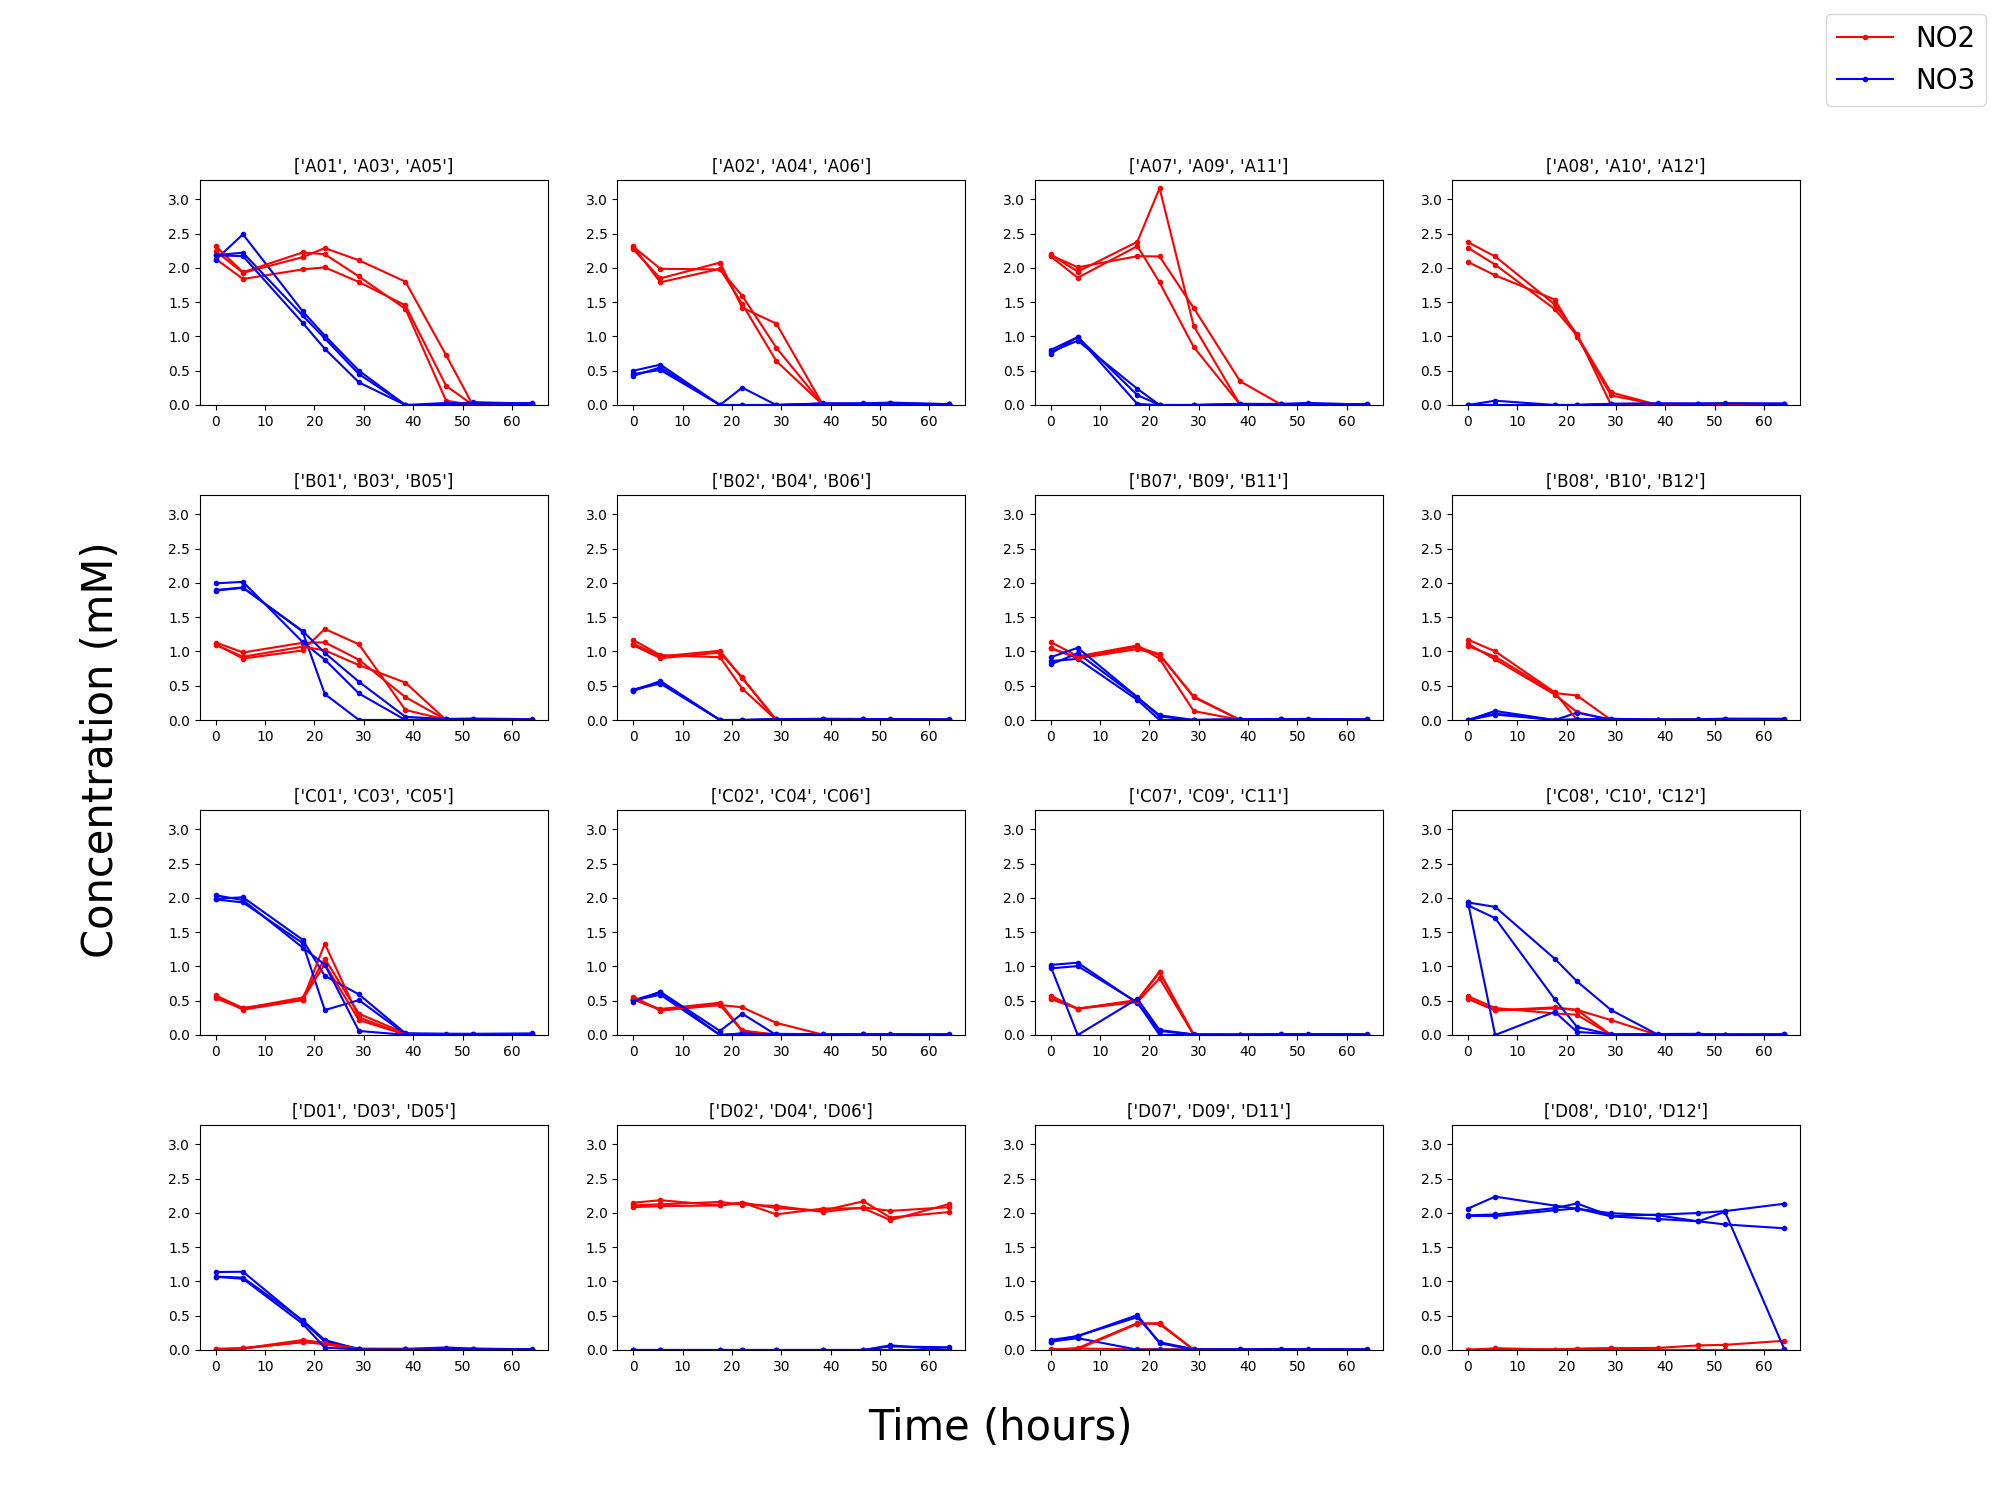
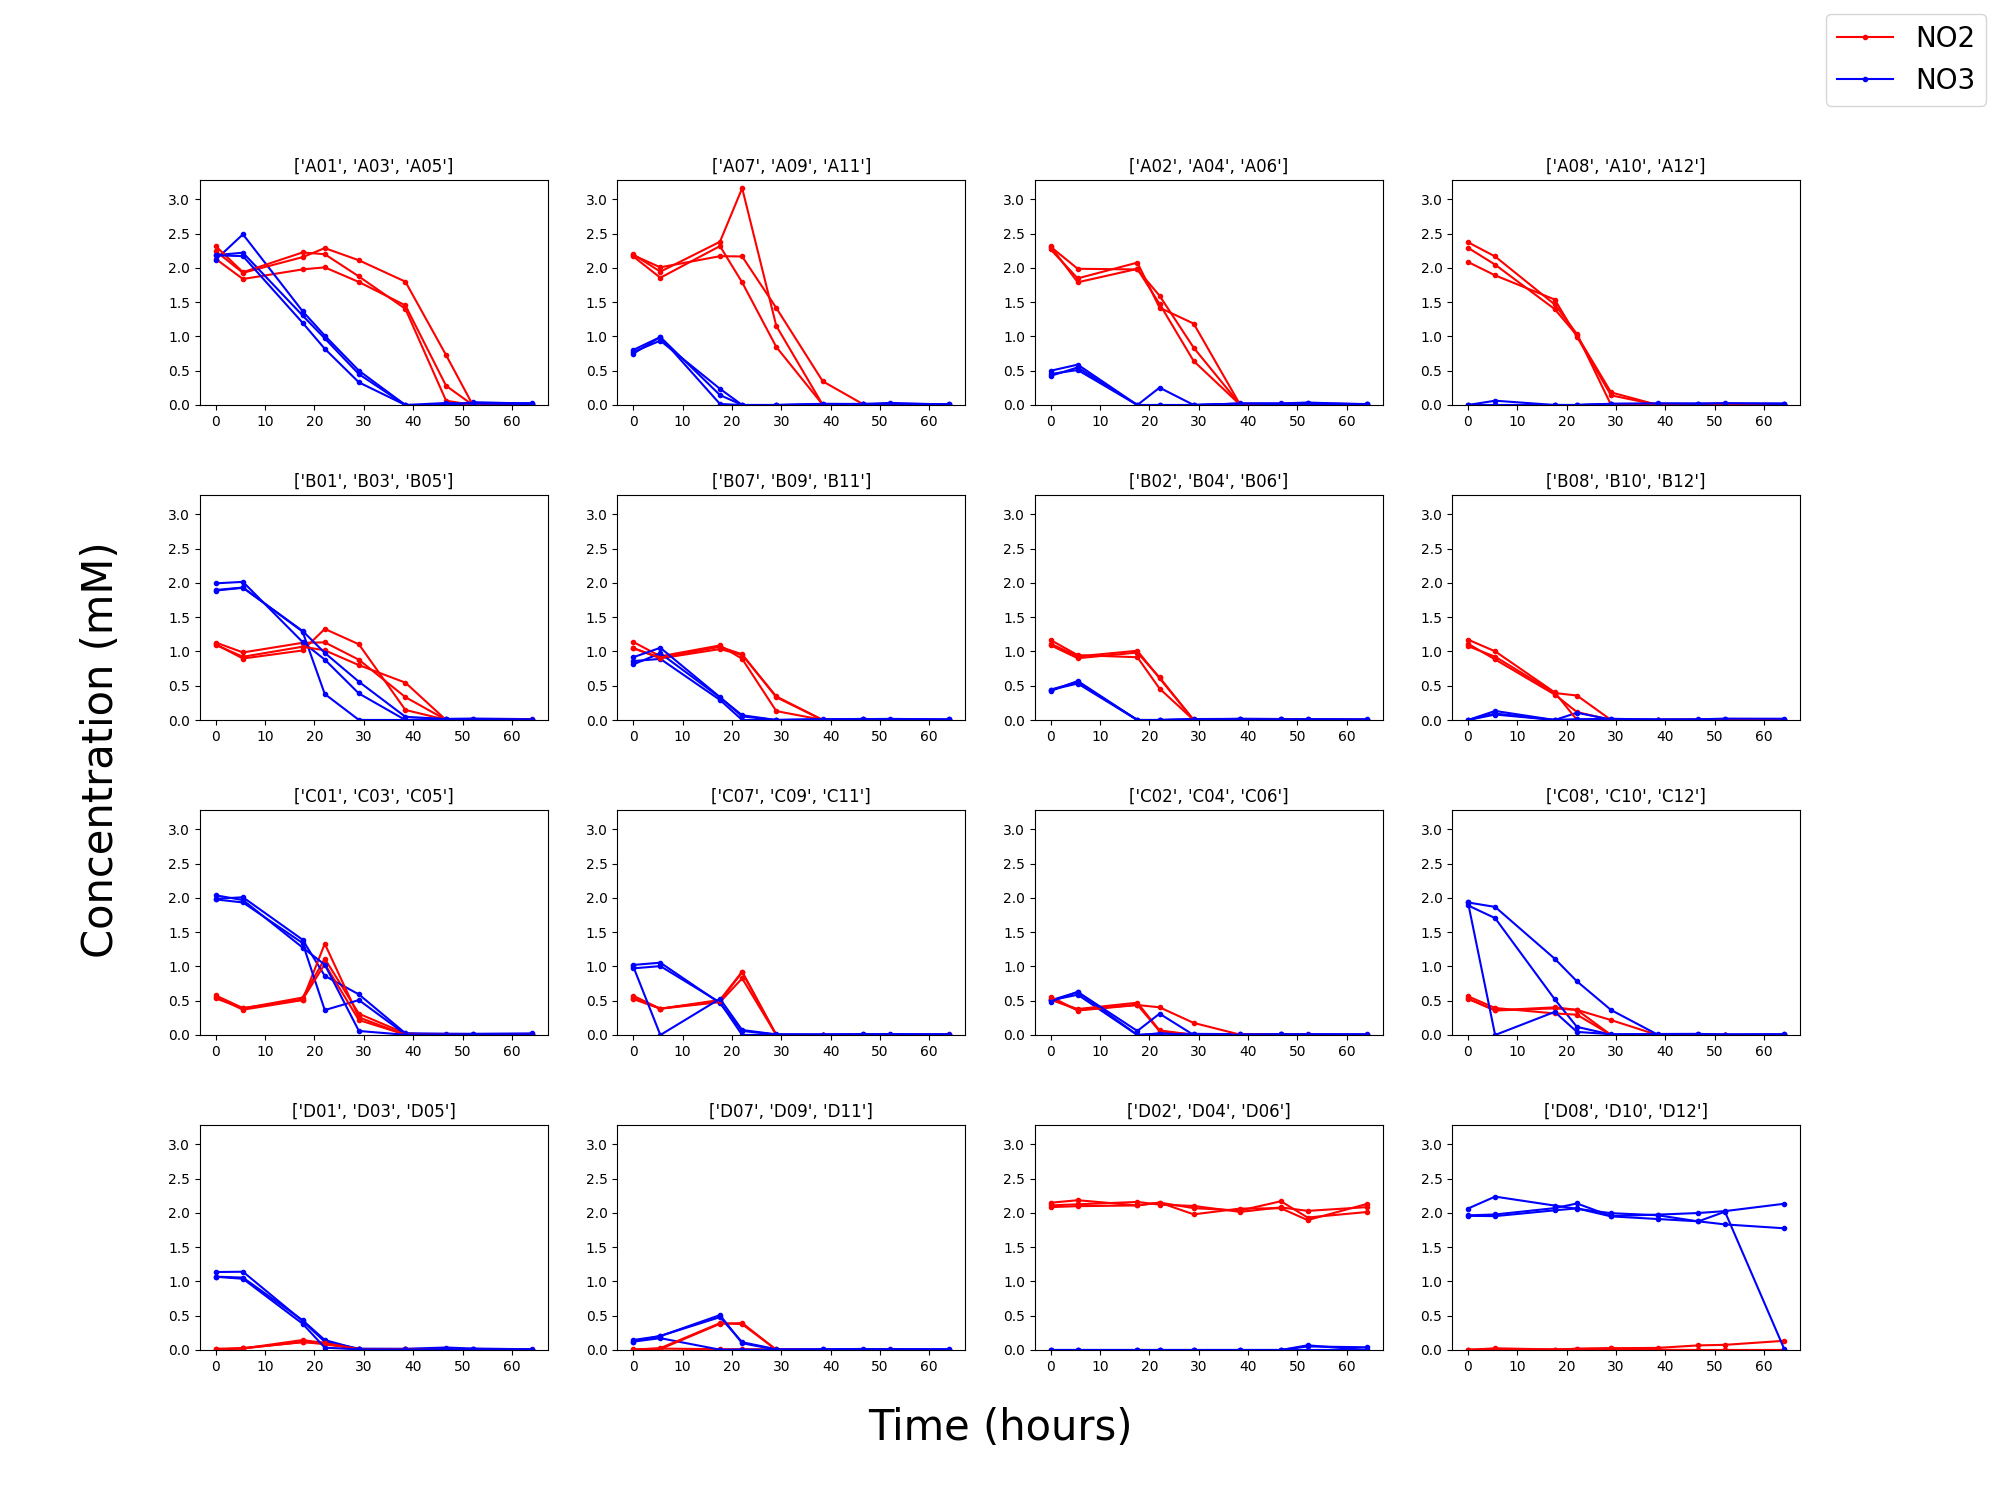
modified:   20241103/plots/time_series_overlap_0.png 	modified:   20241103/plots/time_series_overlap_1.png 	modified:   plots_time_series_20241105.py

diff --git a/plots_time_series_20241105.py b/plots_time_series_20241105.py
@@ -70,14 +70,14 @@ output_folder = f'{filepath}/plots'
 os.makedirs(output_folder, exist_ok=True)
 
 # List of row names in the order you want to display them
-rows_to_plot = ['A01', 'A03', 'A05', 'A02', 'A04', 'A06', 'A07', 'A09', 'A11', 'A08', 'A10', 'A12',
-                'B01', 'B03', 'B05', 'B02', 'B04', 'B06', 'B07', 'B09', 'B11', 'B08', 'B10', 'B12',
-                'C01', 'C03', 'C05', 'C02', 'C04', 'C06', 'C07', 'C09', 'C11', 'C08', 'C10', 'C12',
-                'D01', 'D03', 'D05', 'D02', 'D04', 'D06', 'D07', 'D09', 'D11', 'D08', 'D10', 'D12',
-                'E01', 'E03', 'E05', 'E02', 'E04', 'E06', 'E07', 'E09', 'E11', 'E08', 'E10', 'E12',
-                'F01', 'F03', 'F05', 'F02', 'F04', 'F06', 'F07', 'F09', 'F11', 'F08', 'F10', 'F12',
-                'G01', 'G03', 'G05', 'G02', 'G04', 'G06', 'G07', 'G09', 'G11', 'G08', 'G10', 'G12',
-                'H01', 'H03', 'H05', 'H02', 'H04', 'H06', 'H07', 'H09', 'H11', 'H08', 'H10', 'H12']
+rows_to_plot = ['A01', 'A03', 'A05', 'A07', 'A09', 'A11', 'A02', 'A04', 'A06', 'A08', 'A10', 'A12',
+                'B01', 'B03', 'B05', 'B07', 'B09', 'B11', 'B02', 'B04', 'B06', 'B08', 'B10', 'B12',
+                'C01', 'C03', 'C05', 'C07', 'C09', 'C11', 'C02', 'C04', 'C06', 'C08', 'C10', 'C12',
+                'D01', 'D03', 'D05', 'D07', 'D09', 'D11', 'D02', 'D04', 'D06', 'D08', 'D10', 'D12',
+                'E01', 'E03', 'E05', 'E07', 'E09', 'E11', 'E02', 'E04', 'E06', 'E08', 'E10', 'E12',
+                'F01', 'F03', 'F05', 'F07', 'F09', 'F11', 'F02', 'F04', 'F06', 'F08', 'F10', 'F12',
+                'G01', 'G03', 'G05', 'G07', 'G09', 'G11', 'G02', 'G04', 'G06', 'G08', 'G10', 'G12',
+                'H01', 'H03', 'H05', 'H07', 'H09', 'H11', 'H02', 'H04', 'H06', 'H08', 'H10', 'H12']
 
 # Number of rows and columns for the subplots grid
 nrows = 4
